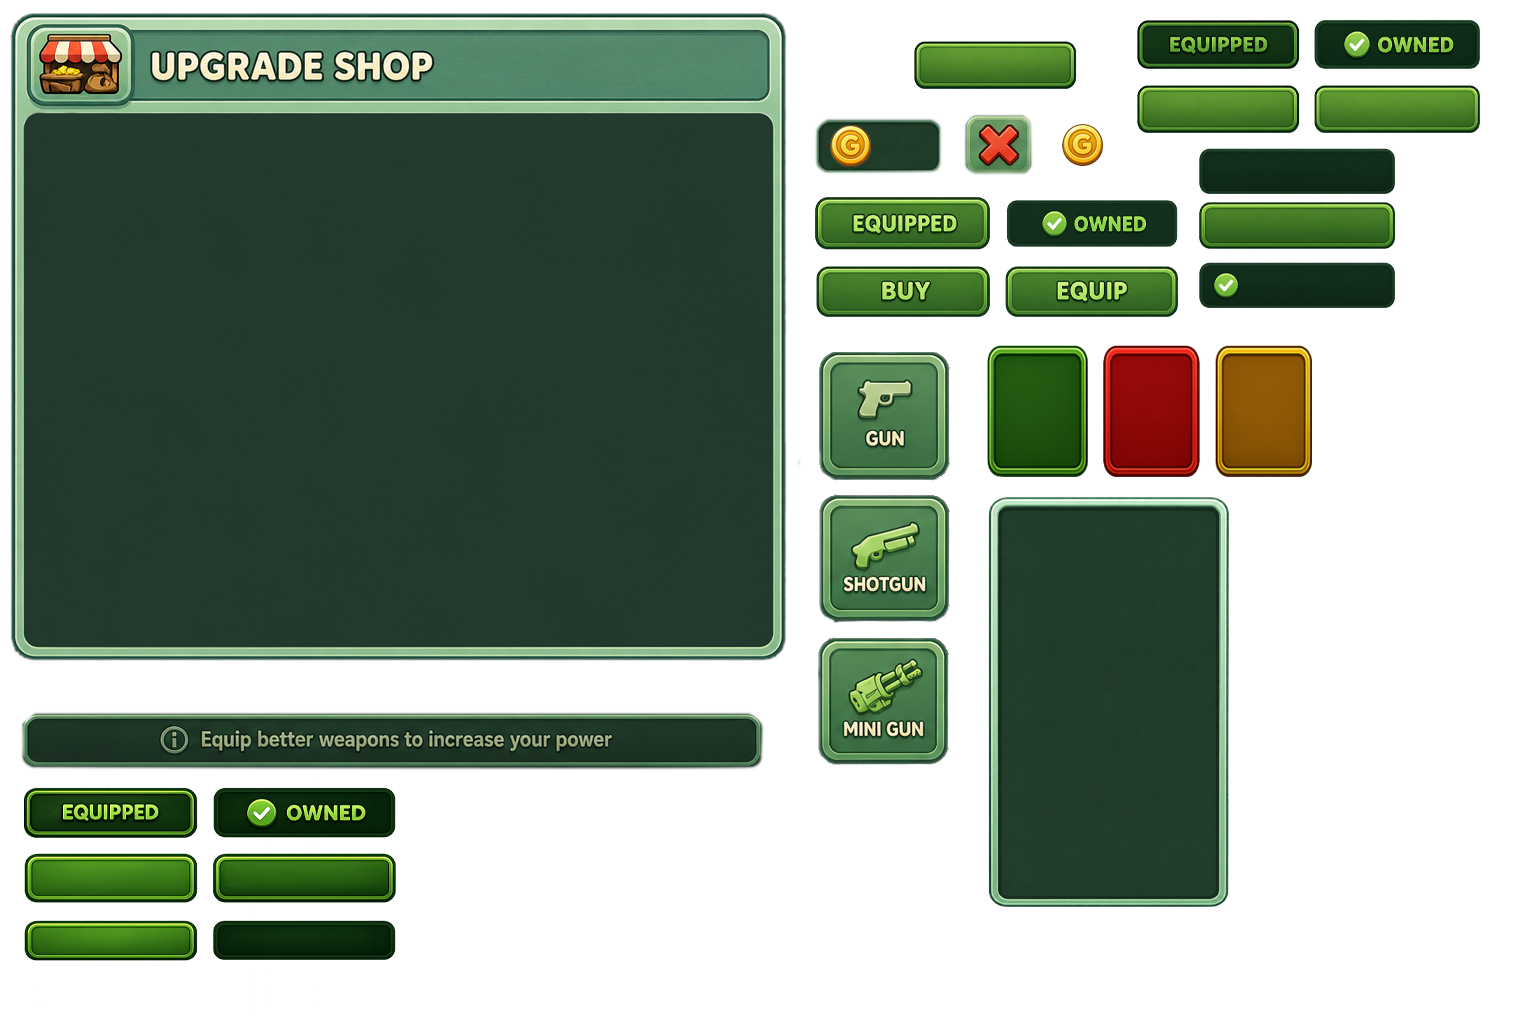
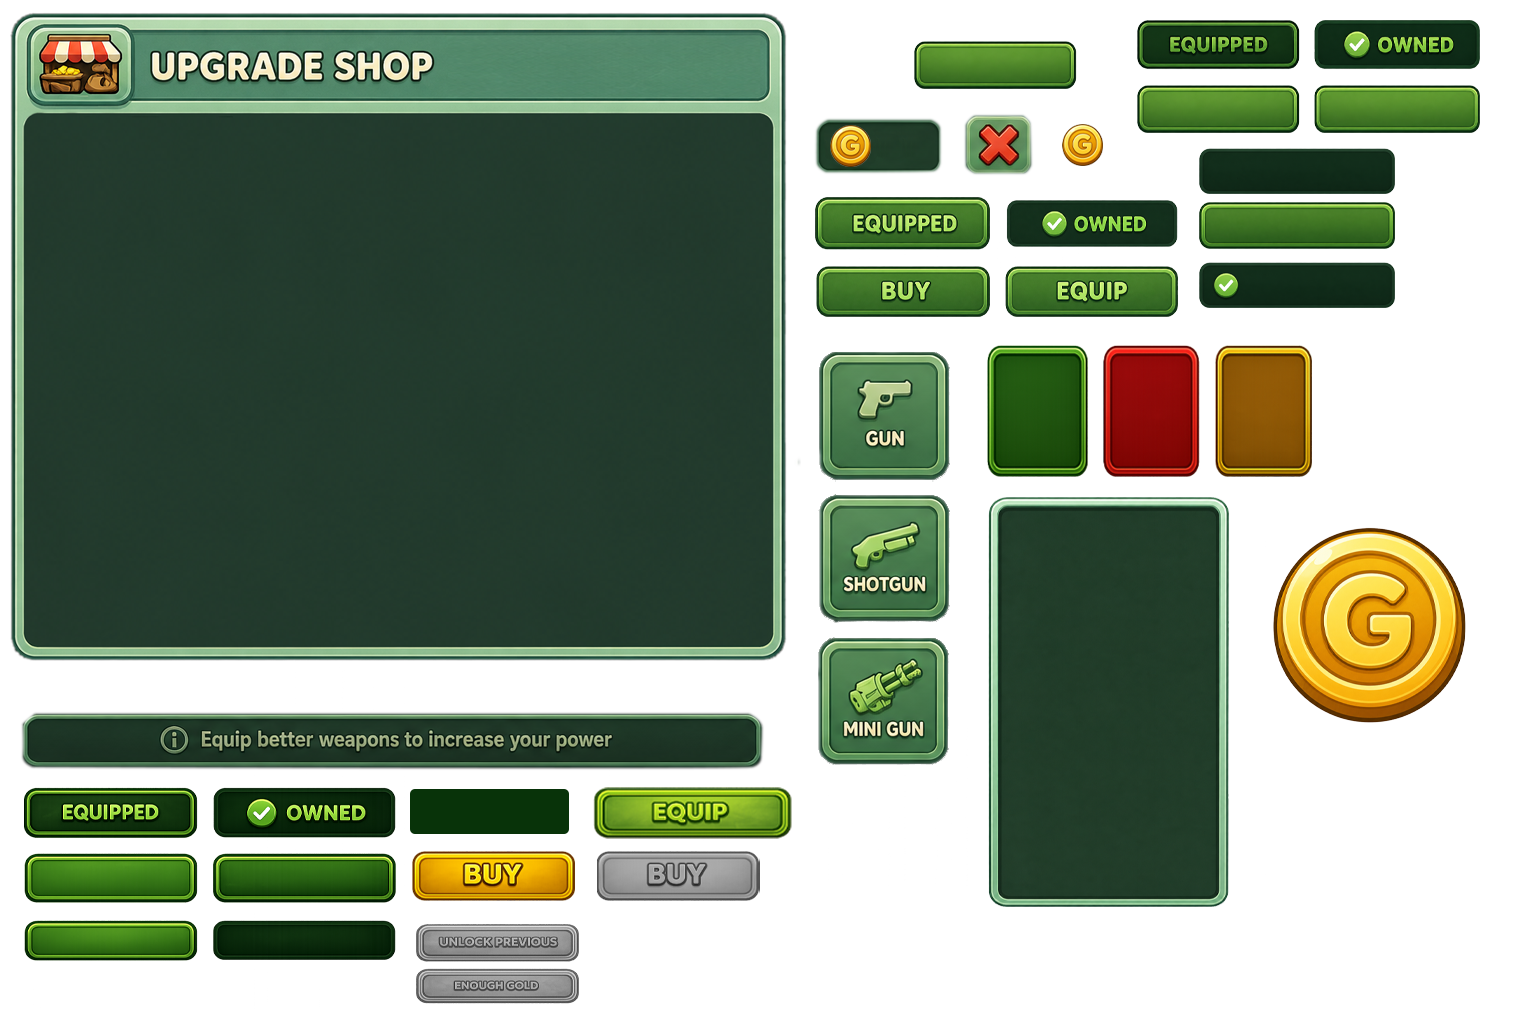
ft/upgrade shop

Changed region(s): [[0.25, 0.75, 0.5312, 1.0], [0.8125, 0.5, 0.9688, 0.7188]]

diff --git a/src/lobbyStoreUi.tsx b/src/lobbyStoreUi.tsx
@@ -17,6 +17,10 @@ import { OutlinedText } from './outlineComponent'
 
 let storeOpen = false
 let selectedWeaponId: LoadoutWeaponId = LOADOUT_WEAPON_DEFINITIONS[0].id
+let deniedPriceShakeWeaponId: LoadoutWeaponId | null = null
+let deniedPriceShakeStartedAt = 0
+const DENIED_PRICE_SHAKE_DURATION_MS = 420
+const DENIED_PRICE_SHAKE_AMPLITUDE = 10
 
 export function openLobbyStore(): void {
   storeOpen = true
@@ -30,6 +34,27 @@ export function closeLobbyStore(): void {
   if (DEBUG_SHOP_UI_ONLY) return
   storeOpen = false
   endUiPointerCapture()
+}
+
+function triggerDeniedPriceShake(weaponId: LoadoutWeaponId): void {
+  deniedPriceShakeWeaponId = weaponId
+  deniedPriceShakeStartedAt = Date.now()
+}
+
+function getDeniedPriceShakeOffset(weaponId: LoadoutWeaponId): number {
+  if (deniedPriceShakeWeaponId !== weaponId) return 0
+
+  const elapsed = Date.now() - deniedPriceShakeStartedAt
+  if (elapsed >= DENIED_PRICE_SHAKE_DURATION_MS) {
+    deniedPriceShakeWeaponId = null
+    deniedPriceShakeStartedAt = 0
+    return 0
+  }
+
+  const progress = elapsed / DENIED_PRICE_SHAKE_DURATION_MS
+  const wave = Math.sin(progress * Math.PI * 10)
+  const damping = 1 - progress
+  return Math.round(wave * damping * DENIED_PRICE_SHAKE_AMPLITUDE)
 }
 
 function getUiCanvasInfo() {
@@ -104,6 +129,7 @@ const C = {
   textGray:     Color4.create(0.76, 0.77, 0.66, 1),
   textGreen:    Color4.create(0.56, 0.92, 0.45, 1),
   textLocked:   Color4.create(0.53, 0.50, 0.40, 1),
+  textBurgundy: Color4.create(0.62, 0.18, 0.20, 1),
   textTitle:    Color4.create(0.97, 0.95, 0.79, 1),
 
   tierT1:       Color4.create(0.62, 0.84, 0.46, 1),
@@ -209,12 +235,36 @@ const STORE_EQUIPPED_SOURCE_X = 24
 const STORE_EQUIPPED_SOURCE_Y = 789
 const STORE_EQUIPPED_SOURCE_WIDTH = 173
 const STORE_EQUIPPED_SOURCE_HEIGHT = 49
+const STORE_EQUIP_SOURCE_X = 592
+const STORE_EQUIP_SOURCE_Y = 786
+const STORE_EQUIP_SOURCE_WIDTH = 201
+const STORE_EQUIP_SOURCE_HEIGHT = 54
 const STORE_OWNED_SOURCE_X = 211
 const STORE_OWNED_SOURCE_Y = 788
 const STORE_OWNED_SOURCE_WIDTH = 186
 const STORE_OWNED_SOURCE_HEIGHT = 52
 const STORE_OWNED_RENDER_SCALE = 0.98
 const STORE_EQUIPPED_RENDER_SCALE = 1.04
+const STORE_BUY_SOURCE_X = 407
+const STORE_BUY_SOURCE_Y = 849
+const STORE_BUY_SOURCE_WIDTH = 168
+const STORE_BUY_SOURCE_HEIGHT = 53
+const STORE_BUY_DISABLED_SOURCE_X = 591
+const STORE_BUY_DISABLED_SOURCE_Y = 849
+const STORE_BUY_DISABLED_SOURCE_WIDTH = 168
+const STORE_BUY_DISABLED_SOURCE_HEIGHT = 53
+const STORE_UNLOCK_PREVIOUS_SOURCE_X = 412
+const STORE_UNLOCK_PREVIOUS_SOURCE_Y = 922
+const STORE_UNLOCK_PREVIOUS_SOURCE_WIDTH = 167
+const STORE_UNLOCK_PREVIOUS_SOURCE_HEIGHT = 41
+const STORE_BUY_GOLD_ICON_SOURCE_X = 1058
+const STORE_BUY_GOLD_ICON_SOURCE_Y = 122
+const STORE_BUY_GOLD_ICON_SOURCE_WIDTH = 44
+const STORE_BUY_GOLD_ICON_SOURCE_HEIGHT = 46
+const STORE_CARD_TAG_SOURCE_X = 406
+const STORE_CARD_TAG_SOURCE_Y = 785
+const STORE_CARD_TAG_SOURCE_WIDTH = 166
+const STORE_CARD_TAG_SOURCE_HEIGHT = 53
 const STORE_UPGRADE_ROW_SOURCE_X = 987
 const STORE_UPGRADE_ROW_SOURCE_Y = 343
 const STORE_UPGRADE_ROW_SOURCE_WIDTH = 326
@@ -276,11 +326,47 @@ const STORE_EQUIPPED_UVS = createShopHudUvs(
   STORE_EQUIPPED_SOURCE_WIDTH,
   STORE_EQUIPPED_SOURCE_HEIGHT
 )
+const STORE_EQUIP_UVS = createShopHudUvs(
+  STORE_EQUIP_SOURCE_X,
+  STORE_EQUIP_SOURCE_Y,
+  STORE_EQUIP_SOURCE_WIDTH,
+  STORE_EQUIP_SOURCE_HEIGHT
+)
 const STORE_OWNED_UVS = createShopHudUvs(
   STORE_OWNED_SOURCE_X,
   STORE_OWNED_SOURCE_Y,
   STORE_OWNED_SOURCE_WIDTH,
   STORE_OWNED_SOURCE_HEIGHT
+)
+const STORE_BUY_UVS = createShopHudUvs(
+  STORE_BUY_SOURCE_X,
+  STORE_BUY_SOURCE_Y,
+  STORE_BUY_SOURCE_WIDTH,
+  STORE_BUY_SOURCE_HEIGHT
+)
+const STORE_BUY_DISABLED_UVS = createShopHudUvs(
+  STORE_BUY_DISABLED_SOURCE_X,
+  STORE_BUY_DISABLED_SOURCE_Y,
+  STORE_BUY_DISABLED_SOURCE_WIDTH,
+  STORE_BUY_DISABLED_SOURCE_HEIGHT
+)
+const STORE_UNLOCK_PREVIOUS_UVS = createShopHudUvs(
+  STORE_UNLOCK_PREVIOUS_SOURCE_X,
+  STORE_UNLOCK_PREVIOUS_SOURCE_Y,
+  STORE_UNLOCK_PREVIOUS_SOURCE_WIDTH,
+  STORE_UNLOCK_PREVIOUS_SOURCE_HEIGHT
+)
+const STORE_BUY_GOLD_ICON_UVS = createShopHudUvs(
+  STORE_BUY_GOLD_ICON_SOURCE_X,
+  STORE_BUY_GOLD_ICON_SOURCE_Y,
+  STORE_BUY_GOLD_ICON_SOURCE_WIDTH,
+  STORE_BUY_GOLD_ICON_SOURCE_HEIGHT
+)
+const STORE_CARD_TAG_UVS = createShopHudUvs(
+  STORE_CARD_TAG_SOURCE_X,
+  STORE_CARD_TAG_SOURCE_Y,
+  STORE_CARD_TAG_SOURCE_WIDTH,
+  STORE_CARD_TAG_SOURCE_HEIGHT
 )
 const STORE_UPGRADE_ROW_UVS = createShopHudUvs(
   STORE_UPGRADE_ROW_SOURCE_X,
@@ -296,9 +382,9 @@ const STORE_UPGRADE_CARD_UVS: Record<LoadoutWeaponDefinition['upgradeLevel'], Sh
     STORE_UPGRADE_CARD_SOURCE_HEIGHT
   ),
   2: createShopHudUvs(
-    STORE_UPGRADE_ROW_SOURCE_X + 112,
+    STORE_UPGRADE_ROW_SOURCE_X + 113,
     STORE_UPGRADE_ROW_SOURCE_Y,
-    STORE_UPGRADE_CARD_SOURCE_WIDTH,
+    STORE_UPGRADE_CARD_SOURCE_WIDTH - 1,
     STORE_UPGRADE_CARD_SOURCE_HEIGHT
   ),
   3: createShopHudUvs(
@@ -477,6 +563,22 @@ function UpgradeCard({ weapon, isLast }: { weapon: LoadoutWeaponDefinition; isLa
   const { CARD_W, CARD_H, CARD_GAP, CARD_IMAGE_BOX, CARD_IMAGE_AREA_H } = getStoreMetrics()
   const imageSrc = WEAPON_IMAGE[weapon.id]
   const cardImageSize = getContainedWeaponImageSize(weapon.id, CARD_IMAGE_BOX, CARD_IMAGE_BOX)
+  const cardTagWidth = Math.max(1, CARD_W - scaleStoreSpacing(28))
+  const cardTagScale = cardTagWidth / STORE_CARD_TAG_SOURCE_WIDTH
+  const cardTagHeight = Math.max(1, Math.round(STORE_CARD_TAG_SOURCE_HEIGHT * cardTagScale))
+  const owned = isLoadoutWeaponOwned(weapon.id)
+  const equipped = isLoadoutWeaponEquipped(weapon.id)
+  const unlocked = isPreviousOwned(weapon)
+  const canAfford = getPlayerGold() >= weapon.priceGold
+  const cardTagLabel = equipped
+    ? 'EQUIPPED'
+    : (owned
+      ? 'EQUIP'
+      : (unlocked ? 'BUY' : 'LOCKED'))
+  const cardTagLeft = weapon.upgradeLevel === 1 ? scaleStoreSpacing(7) : scaleStoreSpacing(10)
+  const cardTagTextColor = cardTagLabel === 'BUY'
+    ? (canAfford ? C.textGold : C.textBurgundy)
+    : (cardTagLabel === 'LOCKED' ? C.textGray : C.textWhite)
 
   return (
     <UiEntity
@@ -508,6 +610,30 @@ function UpgradeCard({ weapon, isLast }: { weapon: LoadoutWeaponDefinition; isLa
         ) : (
           <Label value={WEAPON_EMOJI[weapon.arenaWeaponType]} fontSize={scaleStoreFont(38)} color={C.textWhite} />
         )}
+      </UiEntity>
+
+      <UiEntity
+        uiTransform={{
+          positionType: 'absolute',
+          position: { bottom: scaleStoreSpacing(10), left: cardTagLeft },
+          width: cardTagWidth,
+          height: cardTagHeight,
+          alignItems: 'center',
+          justifyContent: 'center',
+        }}
+        uiBackground={{
+          textureMode: 'stretch',
+          texture: { src: SHOP_HUD_SHEET_SRC },
+          uvs: STORE_CARD_TAG_UVS
+        }}
+      >
+        <Label
+          value={cardTagLabel}
+          fontSize={scaleStoreFont(14)}
+          color={cardTagTextColor}
+          textAlign="middle-center"
+          uiTransform={{ width: '100%', height: '100%' }}
+        />
       </UiEntity>
     </UiEntity>
   )
@@ -657,12 +783,16 @@ function DetailPanel({ weapon, embedded = false }: { weapon: LoadoutWeaponDefini
   const detailTopSectionH = embedded ? '42%' : scaleStoreHeight(MOBILE ? 156 : 188)
   const detailStatsSectionH = embedded ? '30%' : scaleStoreHeight(MOBILE ? 122 : 138)
   const detailButtonsSectionH = embedded ? '28%' : scaleStoreHeight(MOBILE ? 110 : 126)
+  const deniedPriceShakeOffset = !owned ? getDeniedPriceShakeOffset(weapon.id) : 0
   const tierColor = getTierColor(weapon.upgradeLevel)
   const showOwnedLabel = owned && (!MOBILE || !equipped)
   const priceLabel = owned ? 'OWNED' : `${weapon.priceGold} G`
   const actionLabel = owned
     ? (equipped ? 'EQUIPPED' : 'EQUIP')
     : (!unlocked ? 'Unlock previous first' : (canAfford ? 'BUY' : 'NOT ENOUGH GOLD'))
+  const showBuyButtonSprite = !owned && unlocked && canAfford
+  const showUnlockPreviousButtonSprite = !owned && !unlocked
+  const showDisabledBuyButtonSprite = !owned && unlocked && !canAfford
   const actionBg = owned
     ? (equipped ? C.btnEquipped : C.btnEquip)
     : (!unlocked ? C.btnLocked : (canAfford ? C.btnBuy : C.btnLocked))
@@ -675,14 +805,42 @@ function DetailPanel({ weapon, embedded = false }: { weapon: LoadoutWeaponDefini
         texture: { src: SHOP_HUD_SHEET_SRC },
         uvs: STORE_OWNED_UVS
       }
-    : { color: Color4.create(0.14, 0.22, 0.11, 1) }
+    : {
+        textureMode: 'stretch' as const,
+        texture: { src: SHOP_HUD_SHEET_SRC },
+        uvs: STORE_CARD_TAG_UVS
+      }
   const actionBackground = equipped
     ? {
         textureMode: 'stretch' as const,
         texture: { src: SHOP_HUD_SHEET_SRC },
         uvs: STORE_EQUIPPED_UVS
       }
-    : { color: actionBg }
+    : (owned
+      ? {
+          textureMode: 'stretch' as const,
+          texture: { src: SHOP_HUD_SHEET_SRC },
+          uvs: STORE_EQUIP_UVS
+        }
+      : (showBuyButtonSprite
+        ? {
+            textureMode: 'stretch' as const,
+            texture: { src: SHOP_HUD_SHEET_SRC },
+            uvs: STORE_BUY_UVS
+          }
+        : (showUnlockPreviousButtonSprite
+          ? {
+              textureMode: 'stretch' as const,
+              texture: { src: SHOP_HUD_SHEET_SRC },
+              uvs: STORE_UNLOCK_PREVIOUS_UVS
+            }
+          : (showDisabledBuyButtonSprite
+            ? {
+                textureMode: 'stretch' as const,
+                texture: { src: SHOP_HUD_SHEET_SRC },
+                uvs: STORE_BUY_DISABLED_UVS
+              }
+            : { color: actionBg }))))
   const actionFontSize = scaleStoreFont(
     MOBILE
       ? (owned ? 20 : (!unlocked || !canAfford ? 12 : 20))
@@ -702,7 +860,9 @@ function DetailPanel({ weapon, embedded = false }: { weapon: LoadoutWeaponDefini
         return
       }
       sendBuyLoadoutWeapon(weapon.id)
-    } : undefined)
+    } : (!owned && unlocked && !canAfford ? () => {
+      triggerDeniedPriceShake(weapon.id)
+    } : undefined))
 
   return (
     <UiEntity
@@ -806,40 +966,75 @@ function DetailPanel({ weapon, embedded = false }: { weapon: LoadoutWeaponDefini
       >
         {showOwnedLabel || !owned ? (
           <UiEntity
-            key={`price-${weapon.id}-${owned ? 'owned' : 'price'}-${equipped ? 'equipped' : 'idle'}`}
             uiTransform={{
-              width: owned ? Math.round(STORE_OWNED_SOURCE_WIDTH * STORE_OWNED_RENDER_SCALE) : '88%',
-              height: owned ? Math.round((STORE_OWNED_SOURCE_HEIGHT + 10) * STORE_OWNED_RENDER_SCALE) : scaleStoreHeight(40),
+              width: owned ? Math.round(STORE_OWNED_SOURCE_WIDTH * STORE_OWNED_RENDER_SCALE) : Math.round(STORE_CARD_TAG_SOURCE_WIDTH * 0.9),
+              height: owned ? Math.round((STORE_OWNED_SOURCE_HEIGHT + 10) * STORE_OWNED_RENDER_SCALE) : Math.round(STORE_CARD_TAG_SOURCE_HEIGHT * 0.9),
               alignItems: 'center',
               justifyContent: 'center',
-              margin: { bottom: scaleStoreSpacing(4) },
+              margin: { left: deniedPriceShakeOffset, bottom: scaleStoreSpacing(4) },
               borderRadius: 8
             }}
             uiBackground={priceBackground}
           >
             {!owned && (
-              <Label
-                value={priceLabel}
-                fontSize={scaleStoreFont(MOBILE ? 18 : 19)}
-                color={C.textGold}
-              />
+              <UiEntity
+                uiTransform={{
+                  flexDirection: 'row',
+                  width: '100%',
+                  height: '100%',
+                  alignItems: 'center',
+                  justifyContent: 'center',
+                  padding: { left: scaleStoreSpacing(10), right: scaleStoreSpacing(10) }
+                }}
+              >
+                <UiEntity
+                  uiTransform={{
+                    width: scaleStoreImage(24),
+                    height: scaleStoreImage(24),
+                    margin: { right: scaleStoreSpacing(6) }
+                  }}
+                  uiBackground={{
+                    textureMode: 'stretch',
+                    texture: { src: SHOP_HUD_SHEET_SRC },
+                    uvs: STORE_BUY_GOLD_ICON_UVS
+                  }}
+                />
+                <Label
+                  value={`${weapon.priceGold} G`}
+                  fontSize={scaleStoreFont(MOBILE ? 18 : 19)}
+                  color={canAfford ? C.textGold : C.textBurgundy}
+                  textAlign="middle-center"
+                />
+              </UiEntity>
             )}
           </UiEntity>
         ) : null}
 
         <UiEntity
-          key={`action-${weapon.id}-${owned ? 'owned' : 'shop'}-${equipped ? 'equipped' : 'idle'}-${unlocked ? 'unlocked' : 'locked'}-${canAfford ? 'can' : 'cant'}`}
           uiTransform={{
-            width: equipped ? Math.round(STORE_EQUIPPED_SOURCE_WIDTH * STORE_EQUIPPED_RENDER_SCALE) : '88%',
-            height: equipped ? STORE_EQUIPPED_SOURCE_HEIGHT + 6 : scaleStoreButton(MOBILE ? 40 : 46),
+            width: (equipped || owned)
+              ? Math.round(STORE_EQUIPPED_SOURCE_WIDTH * STORE_EQUIPPED_RENDER_SCALE)
+              : (showBuyButtonSprite
+                ? STORE_BUY_SOURCE_WIDTH
+                : (showDisabledBuyButtonSprite
+                  ? STORE_BUY_DISABLED_SOURCE_WIDTH
+                  : (showUnlockPreviousButtonSprite ? STORE_UNLOCK_PREVIOUS_SOURCE_WIDTH : '88%'))),
+            height: (equipped || owned)
+              ? STORE_EQUIPPED_SOURCE_HEIGHT + 6
+              : (showBuyButtonSprite
+                ? STORE_BUY_SOURCE_HEIGHT
+                : (showDisabledBuyButtonSprite
+                  ? STORE_BUY_DISABLED_SOURCE_HEIGHT
+                  : (showUnlockPreviousButtonSprite ? STORE_UNLOCK_PREVIOUS_SOURCE_HEIGHT : scaleStoreButton(MOBILE ? 40 : 46)))),
             borderRadius: 10,
             alignItems: 'center',
-            justifyContent: 'center'
+            justifyContent: 'center',
+            margin: { top: (showBuyButtonSprite || showUnlockPreviousButtonSprite || showDisabledBuyButtonSprite) ? scaleStoreSpacing(8) : 0 }
           }}
           uiBackground={actionBackground}
           onMouseDown={actionHandler}
         >
-          {!equipped && (
+          {!showBuyButtonSprite && !showUnlockPreviousButtonSprite && !showDisabledBuyButtonSprite && !owned && !equipped && (
             <Label
               value={actionLabel}
               fontSize={actionFontSize}